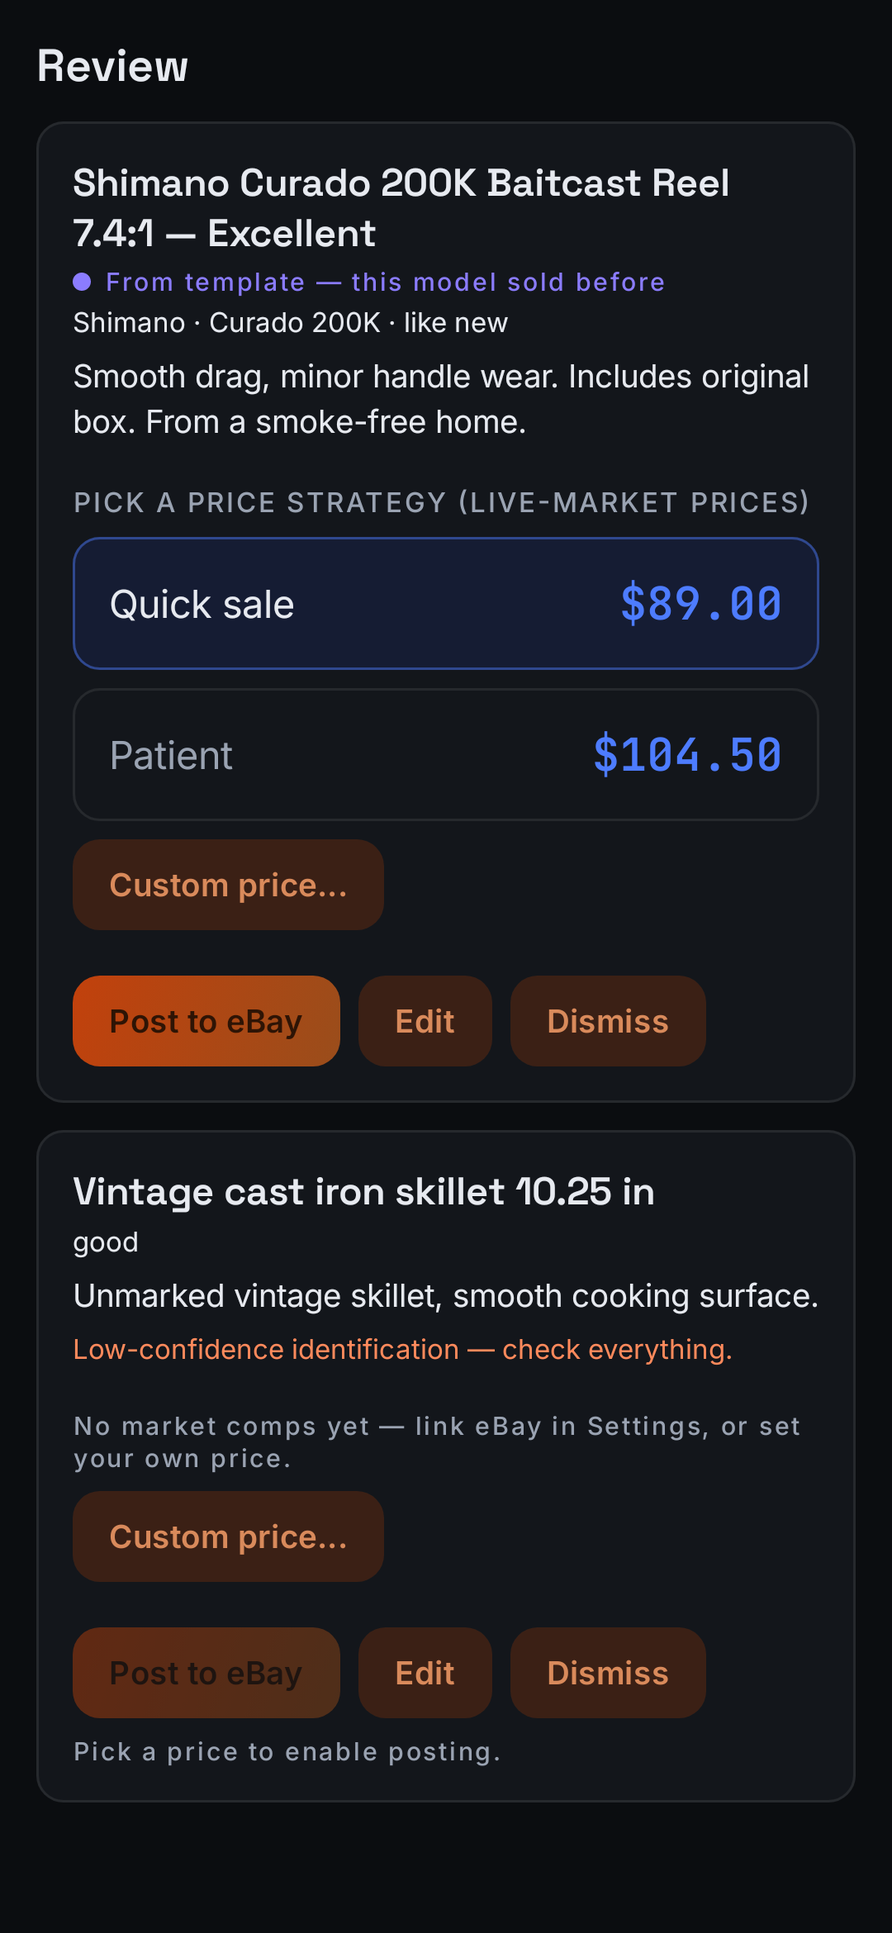
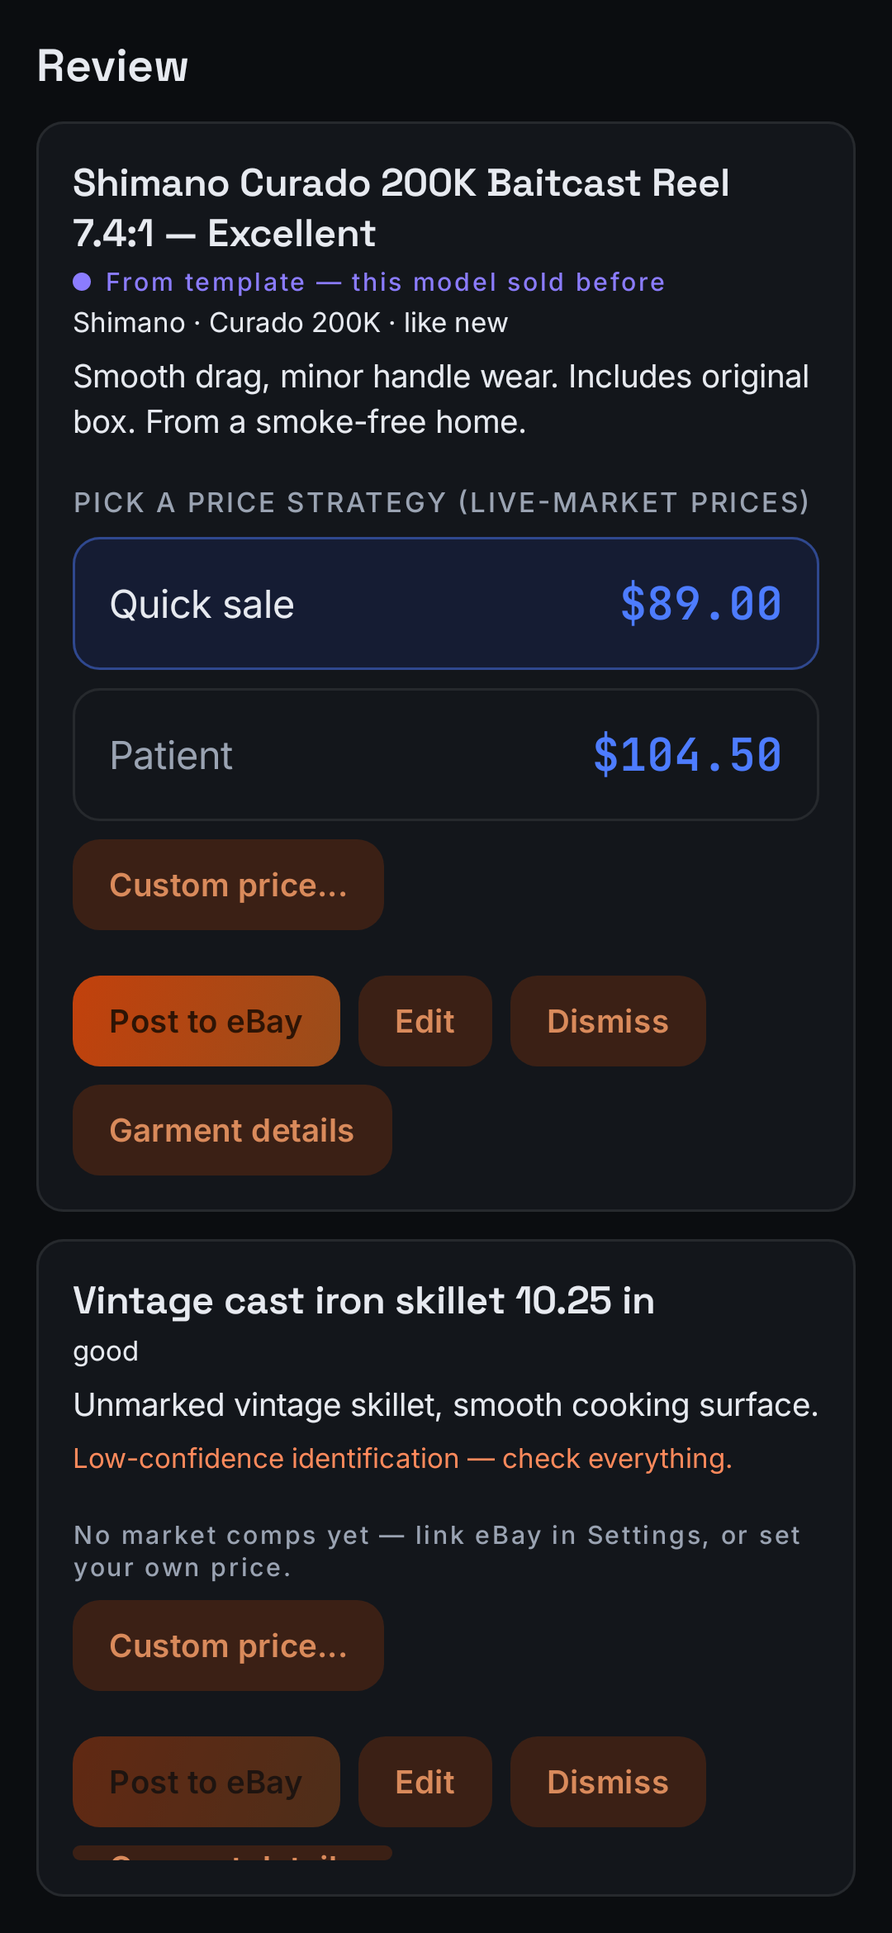
Verification round: prove the untested half on the real host (#13)
The archive-first round (04712c8) shipped three things it could not exercise in the
build container - rembg with real U2-Net weights, real Gemma, and Docker-dependent
backup paths. This round ran all of them against the live Dragonfly host using 19
permissively-licensed real photographs, and fixes what that turned up. No new features.

What the verification proved:

- rembg segments real photographs: 15 of 17 items to 4/4 pure-white corners with a
  tight crop (the two partials were a clothing rack and a flat label - correct).
- The levels order-of-operations fix holds on real pixels. Dark-navy denim landed at
  centre-mean (72,77,87) on pure white with 0.03% pure black where the old order gave
  (0,0,0). Highest pure black anywhere was 0.66%, and that was black text on a label.
- Real gemma-4-e4b returns usable JSON in ~15s, inside the 60s timeout, and returns
  reasoning_content alongside a populated content - so vision.py setting no max_tokens
  is what keeps it safe from the suite-wide gemma-4 empty-response trap.

Size reading was measured rather than assumed, and a prompt change was REJECTED on the
evidence. Over 3 runs through the real build_identify_messages/parse_identify, the
shipping prompt scored 24/24 on safety - it never invented a size - while reading only
~1/6 of legible ones. A candidate prompt gave no recall gain and a reproducible wrong
answer (M for a label whose S is circled, 3 runs of 3). Under-reading is the designed
[…]

Changed region(s): [[0.0611, 0.5615, 0.9167, 0.9671], [0.8556, 0.7799, 0.8861, 0.8111], [0.4889, 0.7799, 0.5194, 0.8111]]

diff --git a/scripts/photo_smoke.py b/scripts/photo_smoke.py
@@ -258,6 +258,7 @@ def main() -> None:
     print(f"Sending {len(groups)} item(s) from {directory} to {CRATE_URL}\n")
 
     failures = 0
+    scan_errors: list[tuple[str, str]] = []
     for index, photos in enumerate(groups, start=1):
         names = ", ".join(p.name for p in photos)
         print(f"[{index}/{len(groups)}] {names}")
@@ -286,6 +287,7 @@ def main() -> None:
         # reporting PHOTO_SMOKE_PASS with LM Studio unreachable would make the smoke a lie.
         if item.get("scan_error") and not args.allow_scan_errors:
             failures += 1
+            scan_errors.append((names, item["scan_error"]))
         if not args.keep:
             request("DELETE", f"{CRATE_URL}/items/{item_id}", token=token)
         else:
@@ -294,12 +296,26 @@ def main() -> None:
 
     if failures:
         print(f"[FAIL] {failures} of {len(groups)} item(s) failed")
-        print(
-            "  scan_error 'identify_unavailable' => LM Studio is unreachable from the server.\n"
-            "  Inside the container localhost is the container: LM_STUDIO_BASE_URL should be\n"
-            "  http://host.docker.internal:1234/v1. Check GET :1234/v1/models for the model\n"
-            "  that is actually loaded (LM_STUDIO_VISION_MODEL must match)."
-        )
+        for names, err in scan_errors:
+            print(f"  {names}: {err}")
+        # Print the remediation that actually matches what went wrong. The hint below used
+        # to be printed unconditionally, so a 'low_confidence' draft — the ordinary, correct
+        # outcome for a photo of a whole clothing rack — read as "LM Studio is unreachable"
+        # and sent you debugging container networking that was working fine.
+        if any(e.startswith("identify_unavailable") for _, e in scan_errors):
+            print(
+                "\n  'identify_unavailable' => the server could not reach LM Studio.\n"
+                "  Inside the container localhost is the container: LM_STUDIO_BASE_URL should be\n"
+                "  http://host.docker.internal:1234/v1. Check GET :1234/v1/models for the model\n"
+                "  that is actually loaded (LM_STUDIO_VISION_MODEL must match)."
+            )
+        if any(e == "low_confidence" for _, e in scan_errors):
+            print(
+                "\n  'low_confidence' => LM Studio answered, but could not identify one item\n"
+                "  in those photos. Usually the photo shows several items (a rack, a pile) or\n"
+                "  the item is unclear — reshoot one item against a plain background. Pass\n"
+                "  --allow-scan-errors to treat this as a pass."
+            )
         sys.exit(1)
     print(f"PHOTO_SMOKE_PASS ({len(groups)} item(s))")
     sys.exit(0)

diff --git a/server/app/services/scan_pipeline.py b/server/app/services/scan_pipeline.py
@@ -109,7 +109,12 @@ async def process_item(item_id: uuid.UUID) -> None:
             await price_item(item)
         except HTTPException as e:
             # Transport failure (LM Studio down/slow/broken): the draft survives with its
-            # photos; the review stack shows why identification is missing.
+            # photos; the review stack shows why identification is missing. Logged as well
+            # as recorded — an outage that only shows up per-item in the DB is invisible in
+            # `docker logs`, so the first sign of LM Studio being down was a user noticing.
+            logger.warning(
+                "identification unavailable for item %s: %s (%s)", item_id, e.detail, e.status_code
+            )
             item.scan_error = f"identify_unavailable: {e.detail}"
         except Exception:
             logger.exception("scan pipeline failed for item %s", item_id)

diff --git a/CLAUDE.md b/CLAUDE.md
@@ -430,9 +430,12 @@ is mocked in CI per §8.
      the **marketplace-account-deletion exemption**) → `EBAY_ENVIRONMENT=production`.
   2. One-time seller setup: business policies (`EBAY_*_POLICY_ID`) +
      `EBAY_LOCATION_POSTAL_CODE`; `FERNET_KEY`; Shippo key + `SHIP_FROM_*`.
-  3. Deploy: `crate` runner + `CRATE_DIR` variable, Tailscale Serve, ntfy topic,
-     `crate-smoke` secret in dragonfly-id's `SMOKE_CLIENTS` (+ same value in Crate's
-     `.env` for the smoke), Dragonfly `ServiceRegistry` row once the URL is real.
+  3. Deploy: ~~`crate` runner + `CRATE_DIR` variable~~ **(DONE — runner registered with the
+     `crate` label, `vars.CRATE_DIR` set 2026-07-26, first green Deploy 2026-08-14)**,
+     ~~Tailscale Serve~~ **(DONE — `:8446`)**, ntfy topic, ~~`crate-smoke` secret in
+     dragonfly-id's `SMOKE_CLIENTS` (+ same value in Crate's `.env` for the smoke)~~
+     **(DONE — the smoke mints tokens against `id` and passes)**, Dragonfly
+     `ServiceRegistry` row once the URL is real.
   4. On-device pass (camera flow, AppAuth redirect, label PDF share) — CI builds are
      the gate until the phone is in hand. Roborazzi baselines **recorded 2026-07-25**
      (`com.crate.screenshot.ScreenshotTest`, 12 PNGs under `android/app/screenshots/`:
@@ -480,3 +483,107 @@ additive `HomeViewModel` + `SettingsViewModel.user` (both on existing endpoints)
   a capture confirms via snackbar; (4) tab navigation anchors `popUpTo(Home)` instead of
   the graph start (Gate pops itself, so the old anchor was a no-op and tabs piled up on
   the back stack — back now always lands on Home, then exits).
+
+## Archive-first round (2026-08-12 → 08-14) — apparel capture, real backups, real-image tests
+
+Landed as `04712c8` (#12). Premise: with no eBay keyset yet, Crate's near-term job is a
+**wardrobe archive**, and the data that only exists on the physical garment — the tag and the
+tape measure — is gone the moment the item is boxed. So capture it while the garment is in hand.
+Details in ARCHITECTURE.md (§"Apparel + archive completeness", §"Backups",
+§"Photo pipeline verification"); this entry is the summary that was missing from CLAUDE.md.
+
+- **Apparel item specifics:** migration `0003` adds `item_kind`, `size`, `size_type`,
+  `department`, `color`, `material`, `style`, `fit`, `sleeve_length`, `measurements_in`,
+  `storage_location`. `app/apparel/` holds the pure logic — `attributes.py` (controlled
+  vocabularies, forgiving-shape/strict-membership `normalize_enum`, bounds-checked
+  `normalize_measurements`) and `completeness.py` (`missing_for_listing` vs the urgent
+  `missing_hand_only`). Both surface as `@computed_field`s on `ItemOut` (§9: clients display,
+  never compute). **Deliberate write-path asymmetry:** vision output degrades (unknown enum →
+  null), a hand `PATCH` rejects (422).
+- **Backups:** `deploy/backup.ps1` writes a timestamped `db.dump` + `photos.tar.gz` +
+  `MANIFEST.json` outside Docker, verifies before claiming success, and prunes to `-Keep` only
+  after the new set verifies. Restore runbook in `deploy/README.md`.
+- **Real-image pipeline tests:** `tests/fixtures/images.py` (Pillow-built, no binaries in git)
+  + `tests/test_photo_pipeline.py`, plus `scripts/photo_smoke.py` for driving real photographs
+  at a running server. Every earlier scan test uploaded fake PNG bytes with `clean_photo`
+  monkeypatched, so no pixel had ever been decoded.
+- **The defect those tests caught:** `clean_photo` ran `autocontrast` *after* white-background
+  replacement, so the garment — the darkest content in that composite — was clipped to
+  `(0,0,0)` in every colourway, with a colour cast pushed into the background. Levels now run
+  on the original capture with `preserve_tone=True`, before compositing.
+- **Verified at the time:** 271 pytest green + ruff clean; CI green. Everything below was
+  explicitly *not* verifiable in the build container (no U2-Net, no LM Studio, no Docker
+  daemon) and carried forward — which is what the next round is about.
+
+## Verification round (2026-08-14) — proving the untested half on the real host
+
+No new features. The archive-first round shipped three things it could not exercise, so this
+round ran them against the live Dragonfly host (rembg with real U2-Net weights, real LM Studio
+serving `google/gemma-4-e4b`, a real Docker daemon) using **19 permissively-licensed real
+photographs** (Wikimedia/Unsplash CC0–CC BY-SA) downscaled to the client's ≤1600px contract.
+Photos stayed in a scratchpad — no binaries in git, per the fixtures design.
+
+- **rembg segmentation: works on real photographs.** Across 17 scanned items, 15 came back with
+  4/4 pure-white corners and a tight crop-to-subject; the two partials were a clothing *rack*
+  (~30 garments — no single subject to segment, correctly) and a flat label close-up.
+- **The levels fix holds on real pixels.** The dark-navy denim control went from a grey backdrop
+  at centre-mean `(41,45,54)` to `(72,77,87)` on pure white with **0.03% pure-black**; the
+  black-dress case kept its tone and fabric folds. Highest pure-black in any cleaned output was
+  0.66%, and that was legitimate black text on a label. The blackening defect is genuinely gone.
+- **Real Gemma returns usable JSON** — ~15 s per item, well inside the 60 s `lm_studio_timeout`,
+  parsed by `parse_identify` without salvage drama. Worth recording: gemma-4 **is** a reasoning
+  model here and returns `reasoning_content` alongside `content`, so `_chat_vision` reading only
+  `content` is correct — and `vision.py` deliberately setting **no `max_tokens`** is what keeps
+  it safe. An answer-sized cap would let hidden reasoning tokens eat the budget and silently
+  return `""`, which the parser would read as "unidentifiable" (the suite-wide gemma-4 trap).
+- **The size invariant holds, and an attempt to "improve" it was rejected on evidence.**
+  Ground truth was read by eye off 8 tag photographs (X-LARGE; 中/小/大; a circled `S` in an
+  `XS S M L XL XXL` run; `EUR 30 / US 30`; two brand/care-only negative controls). Measured
+  over 3 runs of an A/B harness driving the **real** `build_identify_messages`/`parse_identify`:
+  the shipping prompt scored **24/24 on safety — it never once invented a size** — while reading
+  only ~1/6 of legible ones. A candidate prompt that told the model "reading is not inferring"
+  produced **no recall gain and a reproducible wrong answer** (`M` for the circled-`S` label, 3
+  runs out of 3). **No prompt change shipped.** Under-reading is the designed trade: a null
+  sends a human to the tag, a wrong size ships the wrong garment. Direct probing confirms the
+  model *can* read these tags when asked plainly, so the recall gap is real but must not be
+  closed by weakening the never-infer rule.
+- **`backup.ps1` had never actually run — it could not.** Line 248 wrote the dump with
+  `Set-Content -AsByteStream`, which is **PowerShell 7+ only**; the host has no `pwsh` and its
+  `powershell.exe` is **5.1**, so the script threw on its first step and left an *empty*
+  timestamped directory — a backup set that looks present until you open it. Fixed by
+  redirecting `pg_dump` through `cmd` straight to disk (binary never enters the 5.1 pipeline,
+  which would decode it to text and corrupt it; `-Encoding Byte` is no good either, being gone
+  in 7). Now verified end-to-end: `PGDMP` magic bytes, `pg_restore --list` reads 55 TOC entries,
+  17.4 MB photo archive, `-Verify` green. **Restore is still unrehearsed** — deliberately, since
+  proving it means `pg_restore --clean` against the live database.
+- **Weekly CI had been red for three straight weeks** (2026-07-27 / 08-03 / 08-10) on
+  `pip-audit`, and the job's own comment says a red weekly run is the signal to look. The sole
+  cause was `ecdsa` PYSEC-2026-1325 (Minerva timing attack), which has **no fix version** —
+  upstream considers side channels out of scope — and is present only because `python-jose`
+  declares it. Crate never reaches it: local tokens are HS256, suite tokens are decoded with
+  `algorithms=["RS256"]` pinned, so no EC signing/keygen/ECDH ever runs. Ignored explicitly with
+  that reasoning so the weekly signal means something again; the real remediation (drop
+  python-jose for PyJWT) is recorded at the ignore. `pytest` 8.4.2 is also flagged
+  (PYSEC-2026-1845, fixed in 9.0.3) but 9.x conflicts with `pytest-asyncio` 0.26.0, and CI's
+  audit installs runtime deps only — pinned with a comment rather than bumped blind.
+- **Two small defects fixed, both found by using the tools rather than reading them:**
+  `photo_smoke.py` printed a hardcoded "LM Studio is unreachable" remediation for *any* failure,
+  so an ordinary `low_confidence` draft sent you debugging container networking that was fine —
+  it now names the failing photo, prints the real `scan_error`, and matches the hint to it. And
+  `scan_pipeline.py` recorded `identify_unavailable` without logging it, so a real LM Studio
+  outage left no trace in `docker logs`; it now logs a warning.
+- **Roborazzi: verified before re-recording, and only 2 of 16 baselines were actually stale.**
+  `item_detail` was *not* stale despite being assumed so. `review_light`/`review_dark` changed
+  by ~470k pixels — the archive-first round's "Garment details" button, which appears on every
+  draft by design (a general good misclassified from a garment needs a route into the tag
+  fields). Recording rewrites all 16 files, but the other 14 differed by only 78–878 px of
+  anti-aliasing jitter, so they were restored: the commit shows the two that changed meaning.
+- **Verified:** server **271 pytest green**, `ruff check` **and** `ruff format --check` clean
+  (CI runs both); Android **28 unit tests** + all **16 Roborazzi baselines** verify green.
+  Deploy was already live before this round — the "runner + `CRATE_DIR` still human-gated" note
+  above was stale, first green Deploy having run 2026-08-14 with its post-deploy smoke passing.
+- **Still unverified, honestly:** backup *restore* (above); the on-device pass; and everything
+  eBay/Shippo, which is still keyset-gated. The photographs used here are real but they are not
+  *this wardrobe* — a run of `photo_smoke.py --dir <folder>` against the owner's own garments,
+  in the owner's lighting, on the owner's phone camera, is still worth doing and is what
+  `scripts/photo_smoke.py` was written for.

diff --git a/ARCHITECTURE.md b/ARCHITECTURE.md
@@ -95,8 +95,21 @@ keystore (`app/crate-debug.keystore`) with the suite-key release path in `releas
 - `deploy.yml` — self-hosted `crate`-labeled runner redeploys green `main` via
   `deploy/redeploy.ps1`, then runs the synthetic smoke inside the container. An opt-in
   `bootstrap_host` input creates the deployment clone and a minimal `server/.env` when
-  absent (never overwrites an existing `.env`). Human-gated setup: runner registration +
-  `CRATE_DIR` Actions variable + Tailscale Serve config.
+  absent (never overwrites an existing `.env`). Setup is **done**: the runner is registered
+  with the `crate` label, `vars.CRATE_DIR` was set 2026-07-26, Tailscale Serve is on `:8446`,
+  and the first green Deploy ran 2026-08-14 with its post-deploy smoke passing.
+- **`CRATE_DIR` is a deployment clone, not a dev checkout.** `deploy.yml` runs
+  `git -C $CRATE_DIR reset --hard <ref>` on every green `main`, and on the host that path
+  (`C:\Code\Crate`) is owned by the runner service account. Never edit or branch there —
+  uncommitted work is one deploy away from being erased. Work in a separate clone.
+- **The weekly `pip-audit` job ignores `PYSEC-2026-1325`** (`ecdsa`, Minerva timing attack on
+  P-256) with the reasoning recorded at the ignore. It has no fix version — upstream considers
+  side channels out of scope — and `ecdsa` is present only because `python-jose` declares it
+  unconditionally; Crate never reaches it (local tokens HS256, suite tokens decoded with
+  `algorithms=["RS256"]` pinned, so no EC signing/keygen/ECDH). Left un-ignored the job is red
+  forever, which is how it went unexamined from 2026-07-27 to 2026-08-13 — a permanently red
+  signal is no signal. Real remediation is replacing python-jose with PyJWT. Note the job runs
+  `pip install -e .`, so it audits **runtime deps only**; dev-only advisories never gate it.
 - **Health gate identity check.** The gate polls `127.0.0.1:8007/health` *and* asserts
   `/version` reports `name == "Crate API"`. `/health` returns an identical
   `{"status":"ok"}` in every suite app, so port alone cannot identify the responder — the
@@ -140,8 +153,16 @@ the review stack polls `GET /items/{id}` until `processed_at` is set. The pipeli
    → LM Studio (strict-JSON prompt, fence-strip + widest-object-span salvage, condition
    normalized to the enum, weight/dims bounds-checked, title clamped to eBay's 80).
    Content failure ⇒ low-confidence empty draft (`scan_error="low_confidence"`);
-   transport failure ⇒ `scan_error="identify_unavailable: …"` — the draft always
-   survives with its photos.
+   transport failure ⇒ `scan_error="identify_unavailable: …"` (also logged as a warning —
+   an outage recorded only per-item in the DB is invisible in `docker logs`) — the draft
+   always survives with its photos.
+   **`_chat_vision` deliberately sends no `max_tokens`.** `google/gemma-4-e4b` is a
+   reasoning model: it returns `reasoning_content` alongside `content`, and its hidden
+   reasoning tokens share the completion budget while it emits nothing until reasoning
+   finishes. An answer-sized cap would therefore return `""`, which `parse_identify` reads
+   as "unidentifiable" — a silent, mocked-test-invisible failure (the suite-wide gemma-4
+   trap). Confirmed live 2026-08-14: `content` is populated, ~15 s/item, inside the 60 s
+   `lm_studio_timeout`.
    The prompt also carries an **apparel block** (item_kind, department, size, size_type,
    color, material, style, fit, sleeve_length) with one hard rule: report only what is
    legible, never infer a size from how a garment looks. Unrecognized enums are dropped to
@@ -239,6 +260,25 @@ so one luminance-derived mapping applies to all three channels. Guarded by
 `test_white_replacement_leaves_the_background_pure_white`, `test_cleanup_keeps_the_garment_hue`
 and `test_levels_still_lift_an_underexposed_capture`.
 
+**Confirmed against the live stack, 2026-08-14.** The tests above prove the pipeline on
+Pillow-built fixtures; CI can never exercise U2-Net (not downloaded) or a real vision model.
+Driving 19 licensed real photographs through the deployed server closed both gaps: rembg
+segmented 15 of 17 items to 4/4 pure-white corners with a tight crop (the two partials were a
+clothing *rack* — no single subject — and a flat label), and the levels fix held on real
+pixels, the dark-navy denim control landing at centre-mean `(72,77,87)` on pure white with
+**0.03% pure black** where the old order produced `(0,0,0)`.
+
+**Size reading: measured, and a prompt "improvement" rejected on the evidence.** Ground truth
+was read by eye off 8 real tag photographs and replayed through the shipping
+`build_identify_messages`/`parse_identify` three times. The current prompt scored **24/24 on
+safety — it never invented a size** — while transcribing only ~1/6 of legible ones. A candidate
+that added "reading is not inferring" plus a rule for marked size runs gave **no recall gain and
+a reproducible wrong answer** (`M` for a label whose `S` is circled, 3 runs of 3). It was not
+shipped. Direct probing shows the model *can* read these tags when asked plainly, so the recall
+gap is real — but it must not be closed by softening the never-infer rule, because the first
+nudge in that direction immediately started guessing the middle of a size run. Under-reading is
+the designed trade: a null sends a human to the tag; a wrong size ships the wrong garment.
+
 ## Backups (archive-first round, 2026-08-12)
 
 `docker-compose.yml` puts the DB in the `pgdata` volume and item photos in the `photos`
@@ -266,6 +306,15 @@ photographed, tagged, measured and boxed, so:
   set bad. The helper container is `postgres:16` (already pulled for the db service) so
   verification needs no registry round trip and works offline.
 - `-Verify` re-checks the newest set without writing one. Restore steps: deploy/README.md.
+- **It must stay Windows PowerShell 5.1-compatible** — that is the host's `powershell.exe`
+  and what the nightly scheduled task runs; there is no `pwsh` on the Dragonfly host. As
+  first written it used `Set-Content -AsByteStream` (PowerShell 7+ only) for the dump, so
+  under 5.1 it threw immediately and left an empty timestamped directory — present in a
+  listing, worthless on restore, exactly the "trusted empty backup" this script exists to
+  prevent. The dump is now redirected by `cmd` straight to disk: binary must never travel
+  through a 5.1 pipeline, which decodes it to text and corrupts it, and the 5.1 spelling
+  (`-Encoding Byte`) is no better since it is gone in 7. Verified 2026-08-14 against the
+  live stack (`PGDMP` header, `pg_restore --list` reads 55 TOC entries).
 
 ## Auto price-drop scheduler (Phase 8, as built — the §9 documented exception)
 

diff --git a/deploy/README.md b/deploy/README.md
@@ -50,6 +50,13 @@ Each run writes `<BackupDir>\crate-YYYYMMDD-HHmmss\` containing `db.dump`,
 `powershell deploy/backup.ps1 -Verify` re-checks the newest set; use it to confirm a
 scheduled job is really producing restorable output rather than silently writing stubs.
 
+The script runs under **Windows PowerShell 5.1** — the host's `powershell.exe` and what the
+scheduled task above gets (there is no `pwsh` on the Dragonfly host). Keep it 5.1-compatible:
+it originally wrote the dump with `Set-Content -AsByteStream`, which is PowerShell 7+ only, so
+under 5.1 it threw on its first step and left an **empty** backup directory behind — a set that
+looks present in a listing until you open it. That is why `-Verify` exists; run it after any
+change here, under `powershell -NoProfile -File …` rather than an interactive 7 shell.
+
 ### Restoring from a backup
 
 Restore is not exercised by CI, so **rehearse it once against a throwaway Compose project
